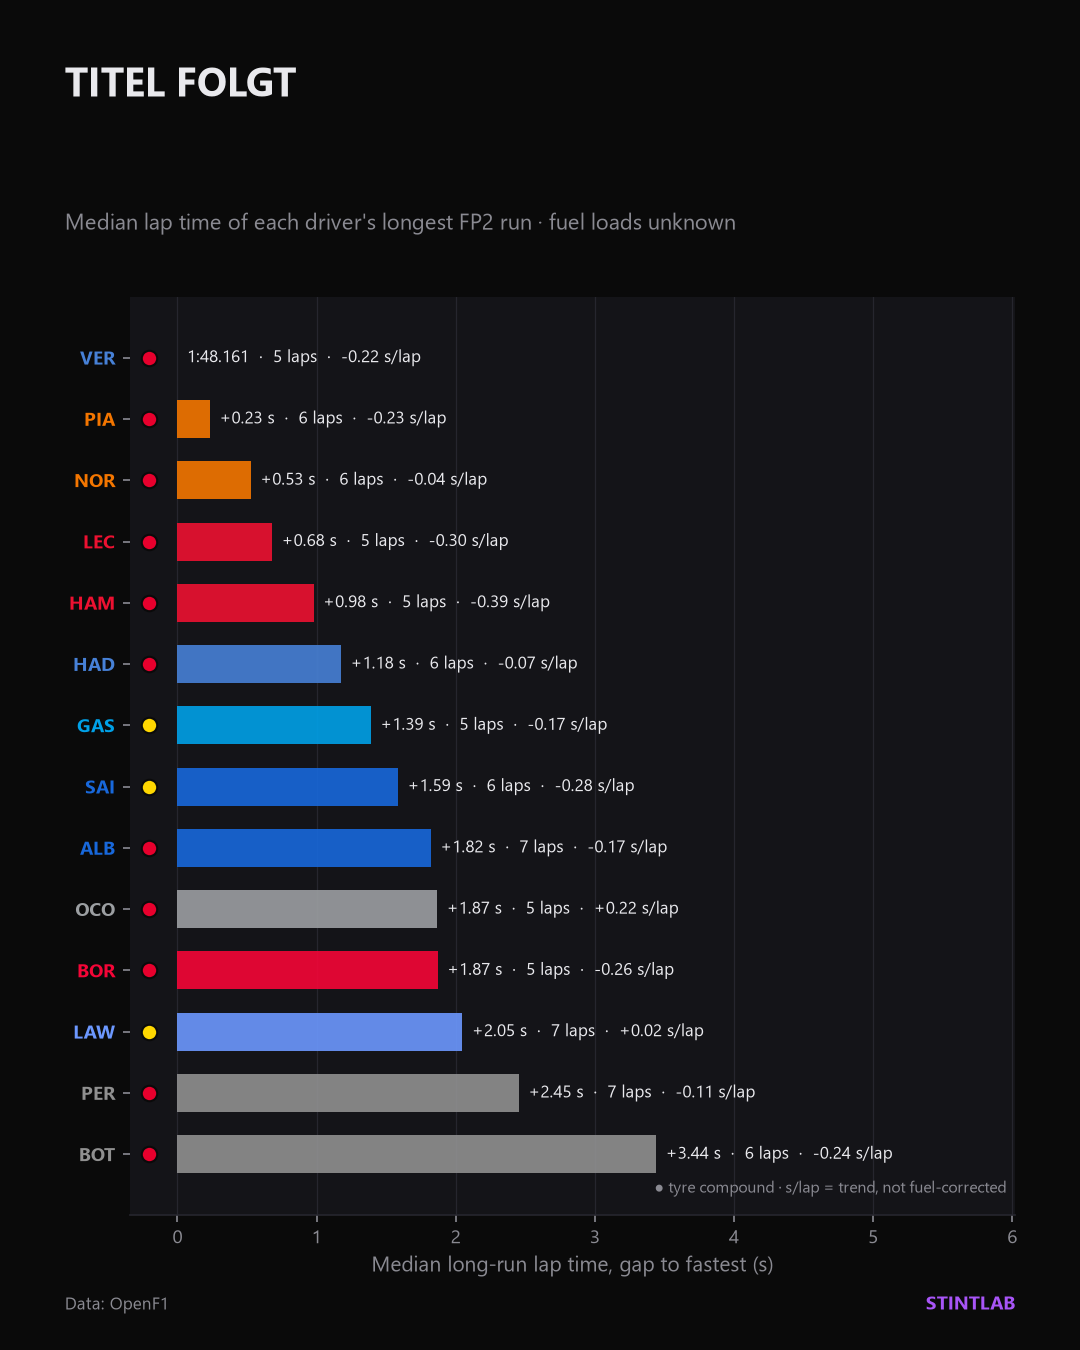
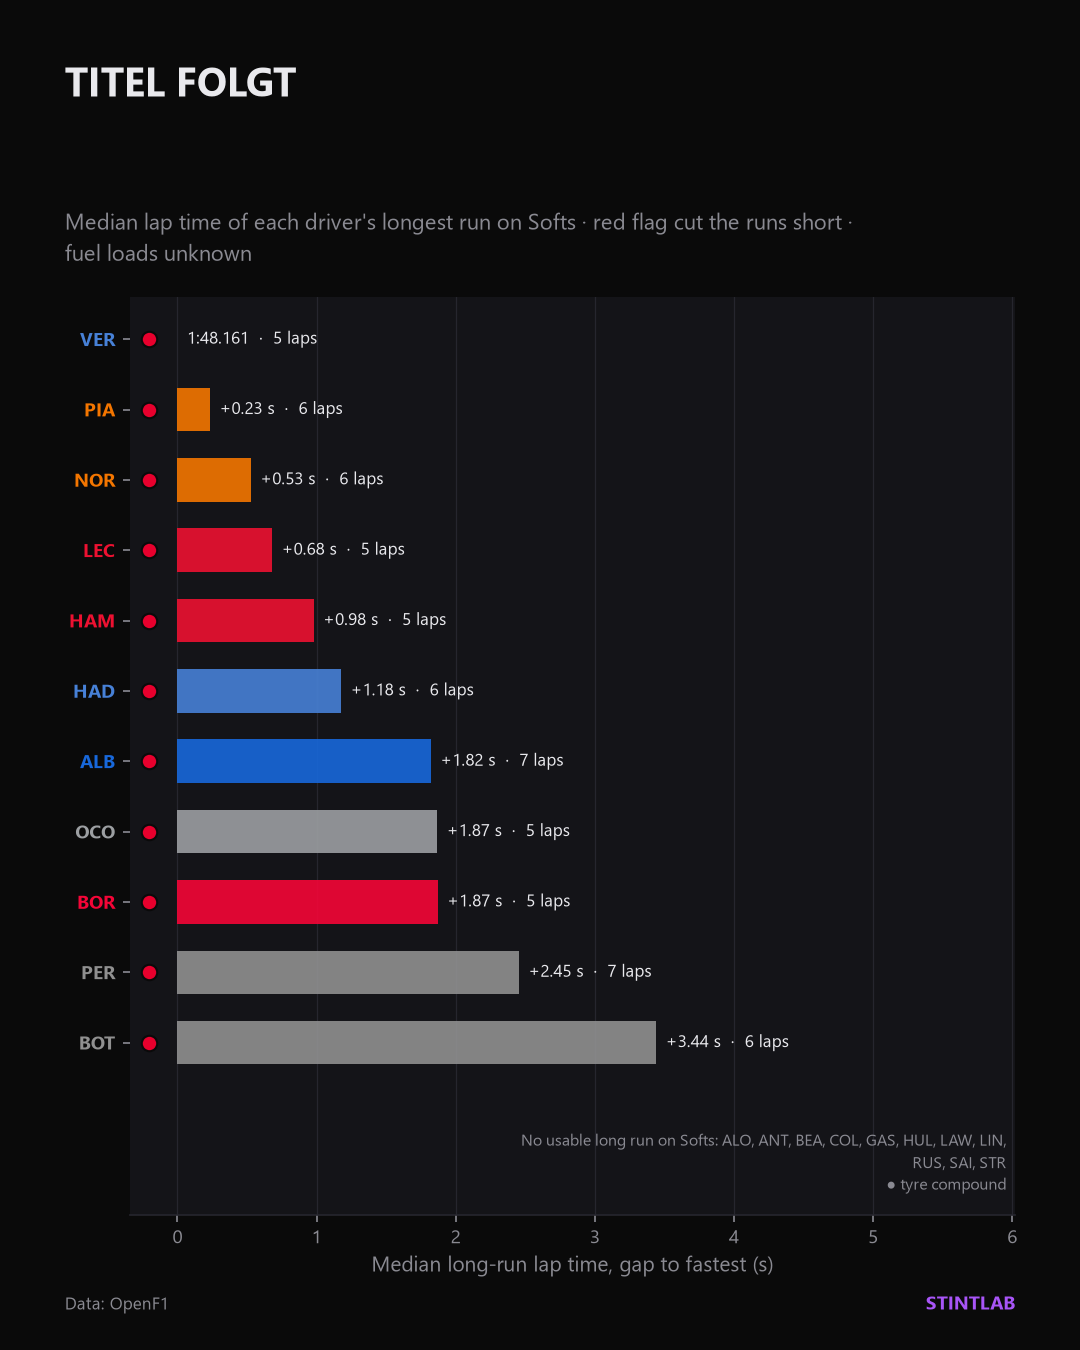
Add long-run analysis for practice sessions

diff --git a/stintlab/analyses/long_runs.py b/stintlab/analyses/long_runs.py
@@ -26,6 +26,8 @@ zeigt eine Tendenz, keine Vorhersage fürs Rennen.
 
 from __future__ import annotations
 
+import textwrap
+
 import numpy as np
 
 from stintlab.race_control import restricted_laps
@@ -166,7 +168,11 @@ def _fmt(seconds: float) -> str:
 
 
 def render_long_runs(ax, data: dict, drivers: list[str] | None = None,
-                     compound: str | None = None, min_laps: int = 5) -> list[dict]:
+                     compound: str | None = None, min_laps: int = 5,
+                     show_deg: bool = False) -> list[dict]:
+    """show_deg: Trend pro Runde anzeigen. Standardmäßig aus, weil er bei
+    kurzen Runs im Training vor allem Sprit, Streckenentwicklung und
+    Aufwärmen zeigt – nicht den Reifenabbau."""
     runs = best_run_per_driver(find_long_runs(data, min_laps), compound)
     if drivers:
         runs = [r for r in runs if r["driver"] in drivers]
@@ -193,11 +199,28 @@ def render_long_runs(ax, data: dict, drivers: list[str] | None = None,
         ax.scatter([-right * 0.06], [i], s=55, color=COMPOUND_COLORS.get(r["compound"], COLORS["muted"]),
                    edgecolor=COLORS["bg"], linewidth=1, zorder=5, clip_on=False)
         label = f"{_fmt(r['median'])}" if d == 0 else f"+{d:.2f} s"
-        ax.text(d + right * 0.02, i, f"{label}  ·  {len(r['laps'])} laps  ·  {r['deg_per_lap']:+.2f} s/lap",
-                va="center", fontsize=8, color=COLORS["text"])
+        label += f"  ·  {len(r['laps'])} laps"
+        if show_deg:
+            label += f"  ·  {r['deg_per_lap']:+.2f} s/lap"
+        ax.text(d + right * 0.02, i, label, va="center", fontsize=8, color=COLORS["text"])
 
     ax.set_xlim(-right * 0.1, right * 1.75)
     ax.set_xlabel(f"Median long-run lap time, gap to fastest (s)")
-    ax.text(0.99, 0.02, "● tyre compound · s/lap = trend, not fuel-corrected",
-            transform=ax.transAxes, ha="right", va="bottom", fontsize=7.5, color=COLORS["muted"])
+    # Hinweise unter den Balken: Mischung und fehlende Fahrer.
+    # Dafür unten Platz reservieren, damit nichts einen Balken überdeckt.
+    notes = ["● tyre compound" + (" · s/lap = trend, not fuel-corrected" if show_deg else "")]
+    missing = missing_drivers(data, runs, drivers)
+    if missing:
+        head = f"No usable long run{' on ' + compound.capitalize() + 's' if compound else ''}: "
+        notes = textwrap.wrap(head + ", ".join(missing), width=70) + notes
+    ax.set_ylim(len(runs) - 0.5 + 0.55 * len(notes) + 0.3, -0.6)
+    ax.text(0.99, 0.02, "\n".join(notes), transform=ax.transAxes, ha="right", va="bottom",
+            fontsize=7.5, color=COLORS["muted"], linespacing=1.5)
     return runs
+
+
+def missing_drivers(data: dict, shown: list[dict], drivers: list[str] | None = None) -> list[str]:
+    """Fahrer der Session (oder der gewünschten Auswahl) ohne gezeigten Long Run."""
+    everyone = drivers or sorted({lap["Driver"] for lap in data.get("laps", [])})
+    have = {r["driver"] for r in shown}
+    return [d for d in everyone if d not in have]

diff --git a/stintlab/registry.py b/stintlab/registry.py
@@ -48,7 +48,10 @@ def _long_runs(ax, data, slide):
     min_laps = slide.get("min_laps", 5)
     if not isinstance(min_laps, int) or min_laps < 3:
         raise ValueError("min_laps muss eine ganze Zahl ab 3 sein, z. B. min_laps = 5")
-    render_long_runs(ax, data, slide.get("drivers") or None, slide.get("compound"), min_laps)
+    show_deg = slide.get("show_deg", False)
+    if not isinstance(show_deg, bool):
+        raise ValueError("show_deg muss true oder false sein (klein geschrieben, ohne Anführungszeichen)")
+    render_long_runs(ax, data, slide.get("drivers") or None, slide.get("compound"), min_laps, show_deg)
 
 
 ANALYSES = {

diff --git a/tests/test_long_runs.py b/tests/test_long_runs.py
@@ -68,3 +68,10 @@ def test_run_with_some_traffic_in_the_middle_is_kept():
     runs = find_long_runs({"laps": laps_for("VER", 14, times)}, min_laps=4)
     assert len(runs) == 1
     assert runs[0]["median"] < 109
+
+
+def test_missing_drivers_are_listed():
+    from stintlab.analyses.long_runs import missing_drivers
+    data = {"laps": laps_for("LEC", 10, [105.0] * 6) + laps_for("ANT", 10, [105.0] * 3)}
+    shown = best_run_per_driver(find_long_runs(data))
+    assert missing_drivers(data, shown) == ["ANT"]

diff --git a/stintlab/style.py b/stintlab/style.py
@@ -9,6 +9,8 @@ Trennung der Aufgaben:
 from pathlib import Path
 import textwrap
 
+import matplotlib
+matplotlib.use("Agg")  # nur Dateien rendern, kein Fenster – braucht kein Tk
 import matplotlib.pyplot as plt
 
 # ── Format ─────────────────────────────────────────────────────────────
